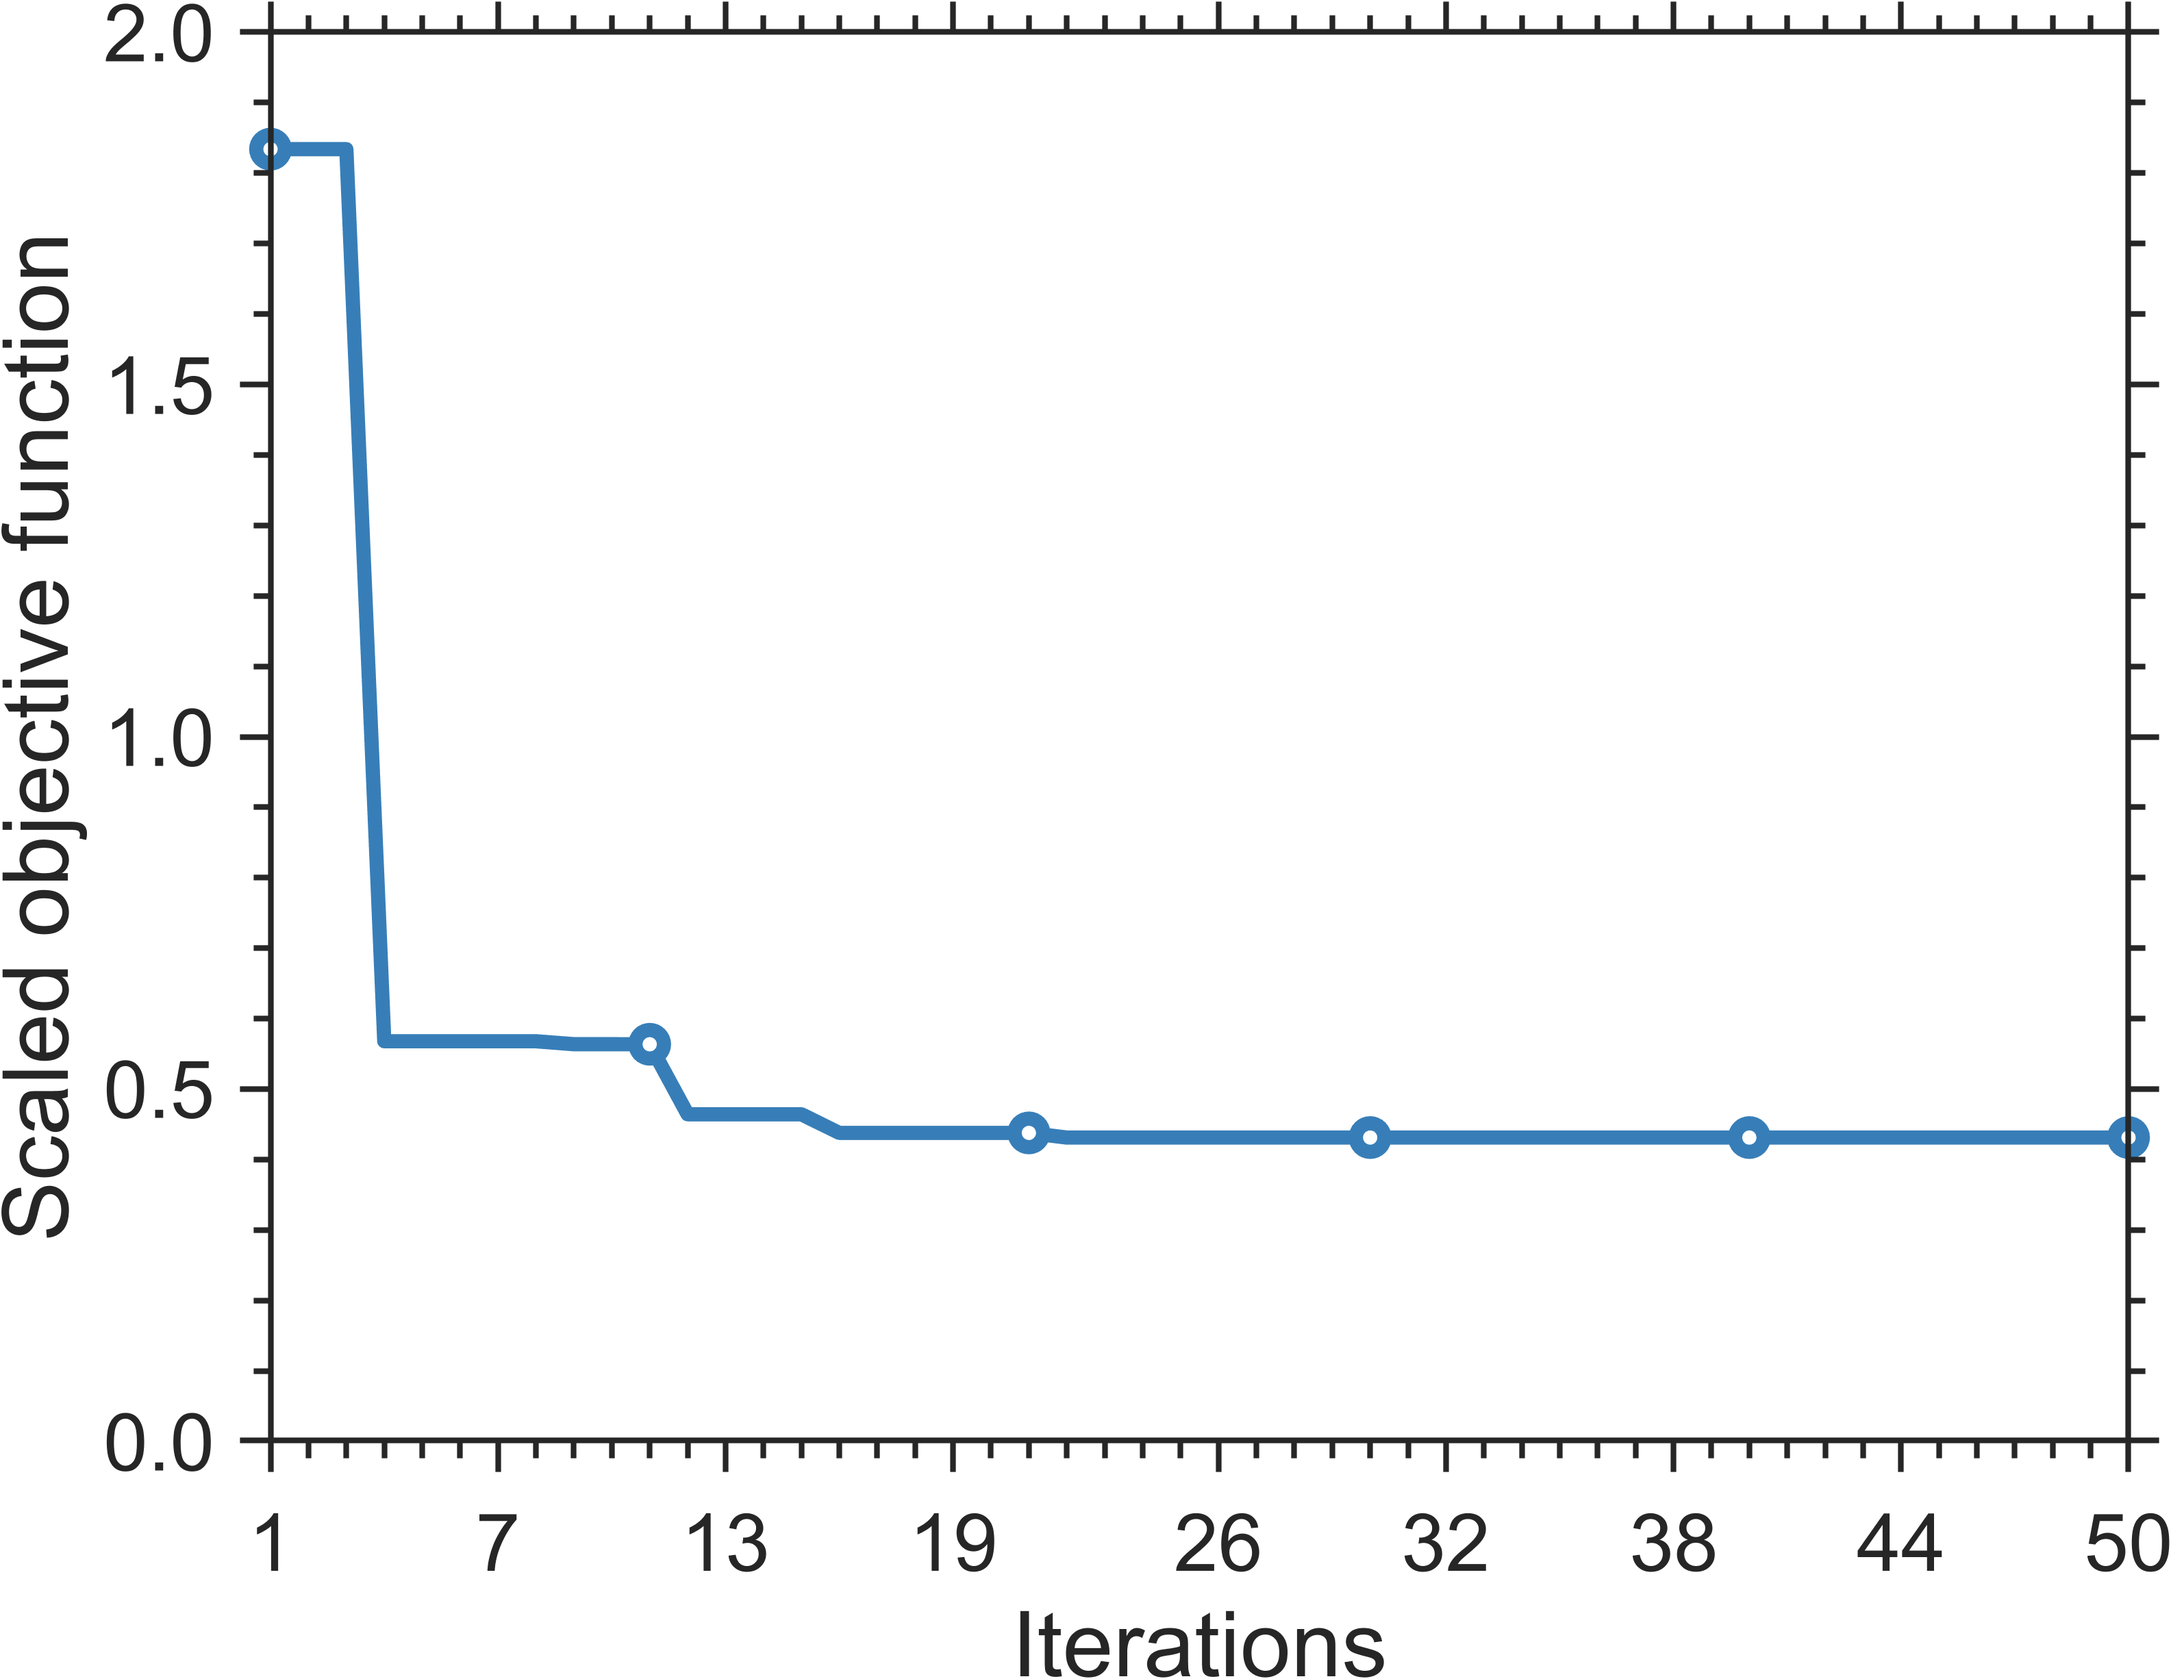
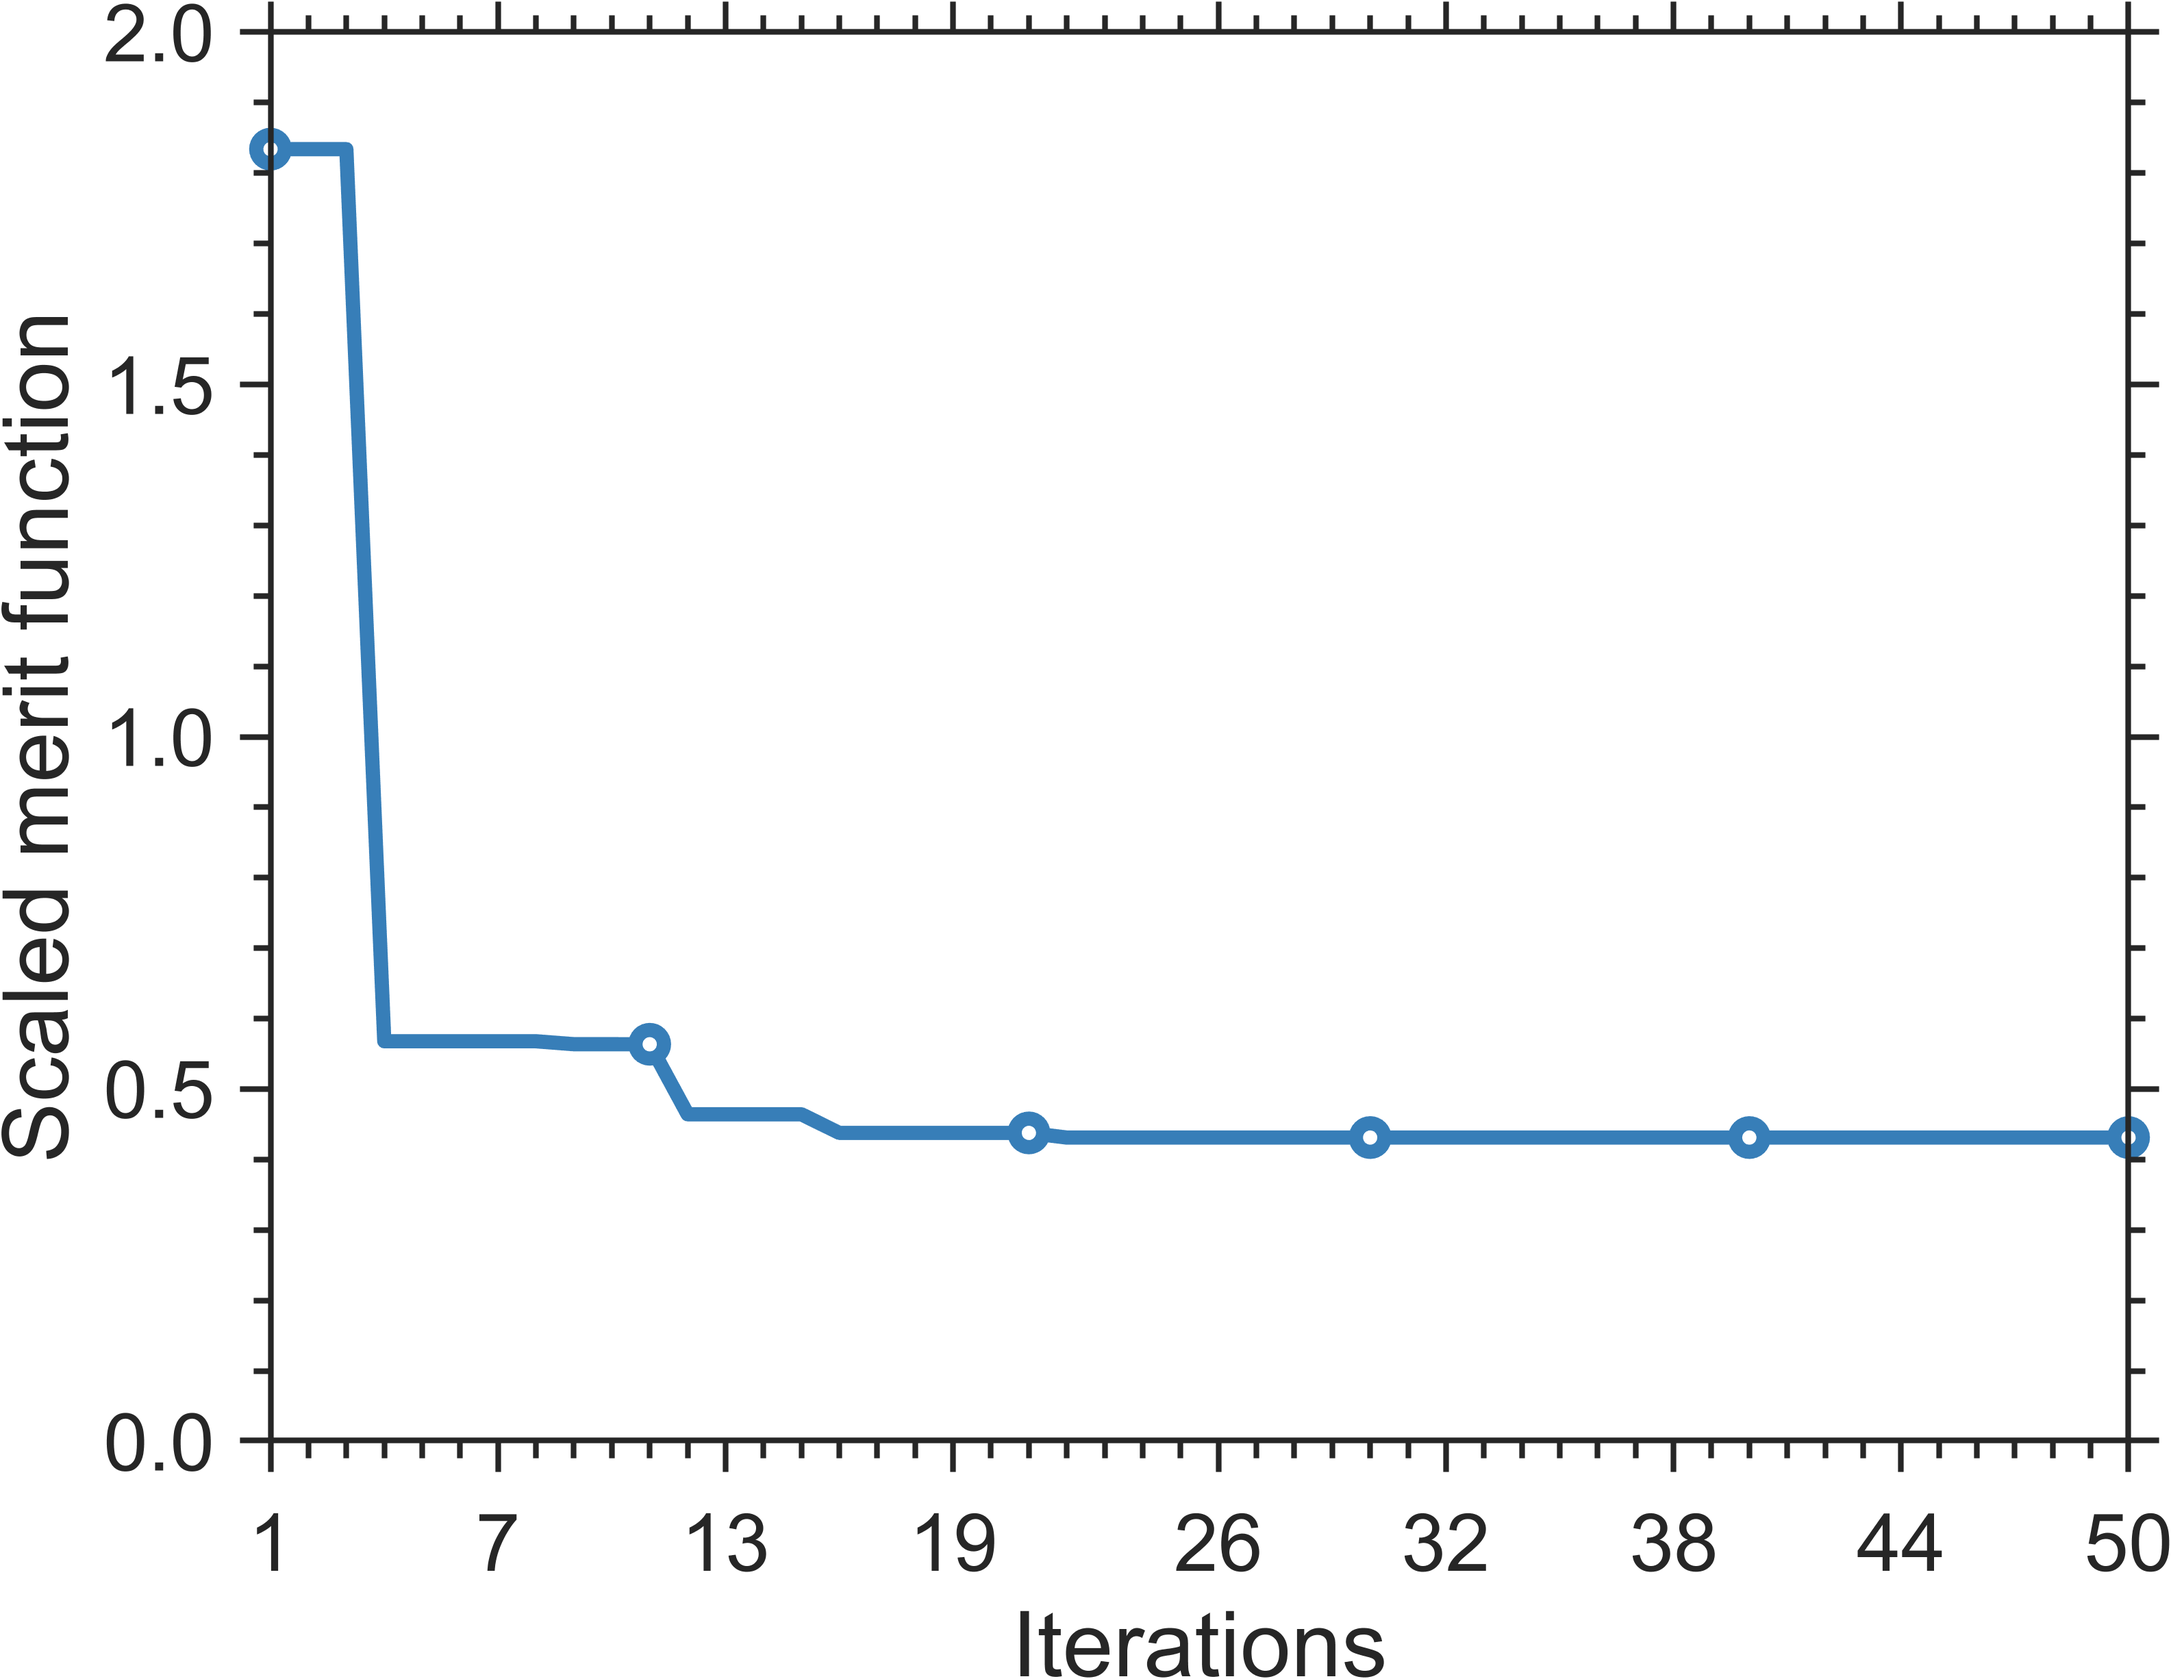
Improved description of results in shock panel.

Changed region(s): [[0.0, 0.124, 0.0312, 0.7439]]

diff --git a/examples/shock_panel/README.md b/examples/shock_panel/README.md
@@ -43,20 +43,27 @@ This command will display a list of jobs currently running under your user ID on
 
 ## Results
 
-The full optimization was undertaken on Virginia Tech's Tinkercliffs computing cluster. The following figure depicts six example designs that were explored by the optimizer in this study.
+The full optimization was undertaken on Virginia Tech's Tinkercliffs computing cluster.
+The figure below depicts six example designs explored by the optimizer.
 
 ![Example FSI snapshots from optimization of a solid panel subjected to shock impulse.](../../images/ShockPanelExampleDesigns.jpg)
 
-The corresponding optimization history after 50 iteration looks like,
+The optimizer minimizes a merit function defined as:
+
+$$
+\text{merit} = \text{objective} + \text{penalty} \cdot \max\left(\mathbf{0},\ \text{constraints}\right)
+$$
+
+The corresponding merit function history over 50 iterations is shown below:
 
 ![Iteration history](../../images/ShockPanelIterationHistory.png)
 
-and the final design parameters are:
+The final optimized design parameters are:
 
 $$
 \begin{aligned}
 t_1 &= 0.422315373841 \\
 t_2 &= 0.972684923009 \\
-t_3 &= 1.62662958746 \\
+t_3 &= 1.62662958746
 \end{aligned}
 $$
